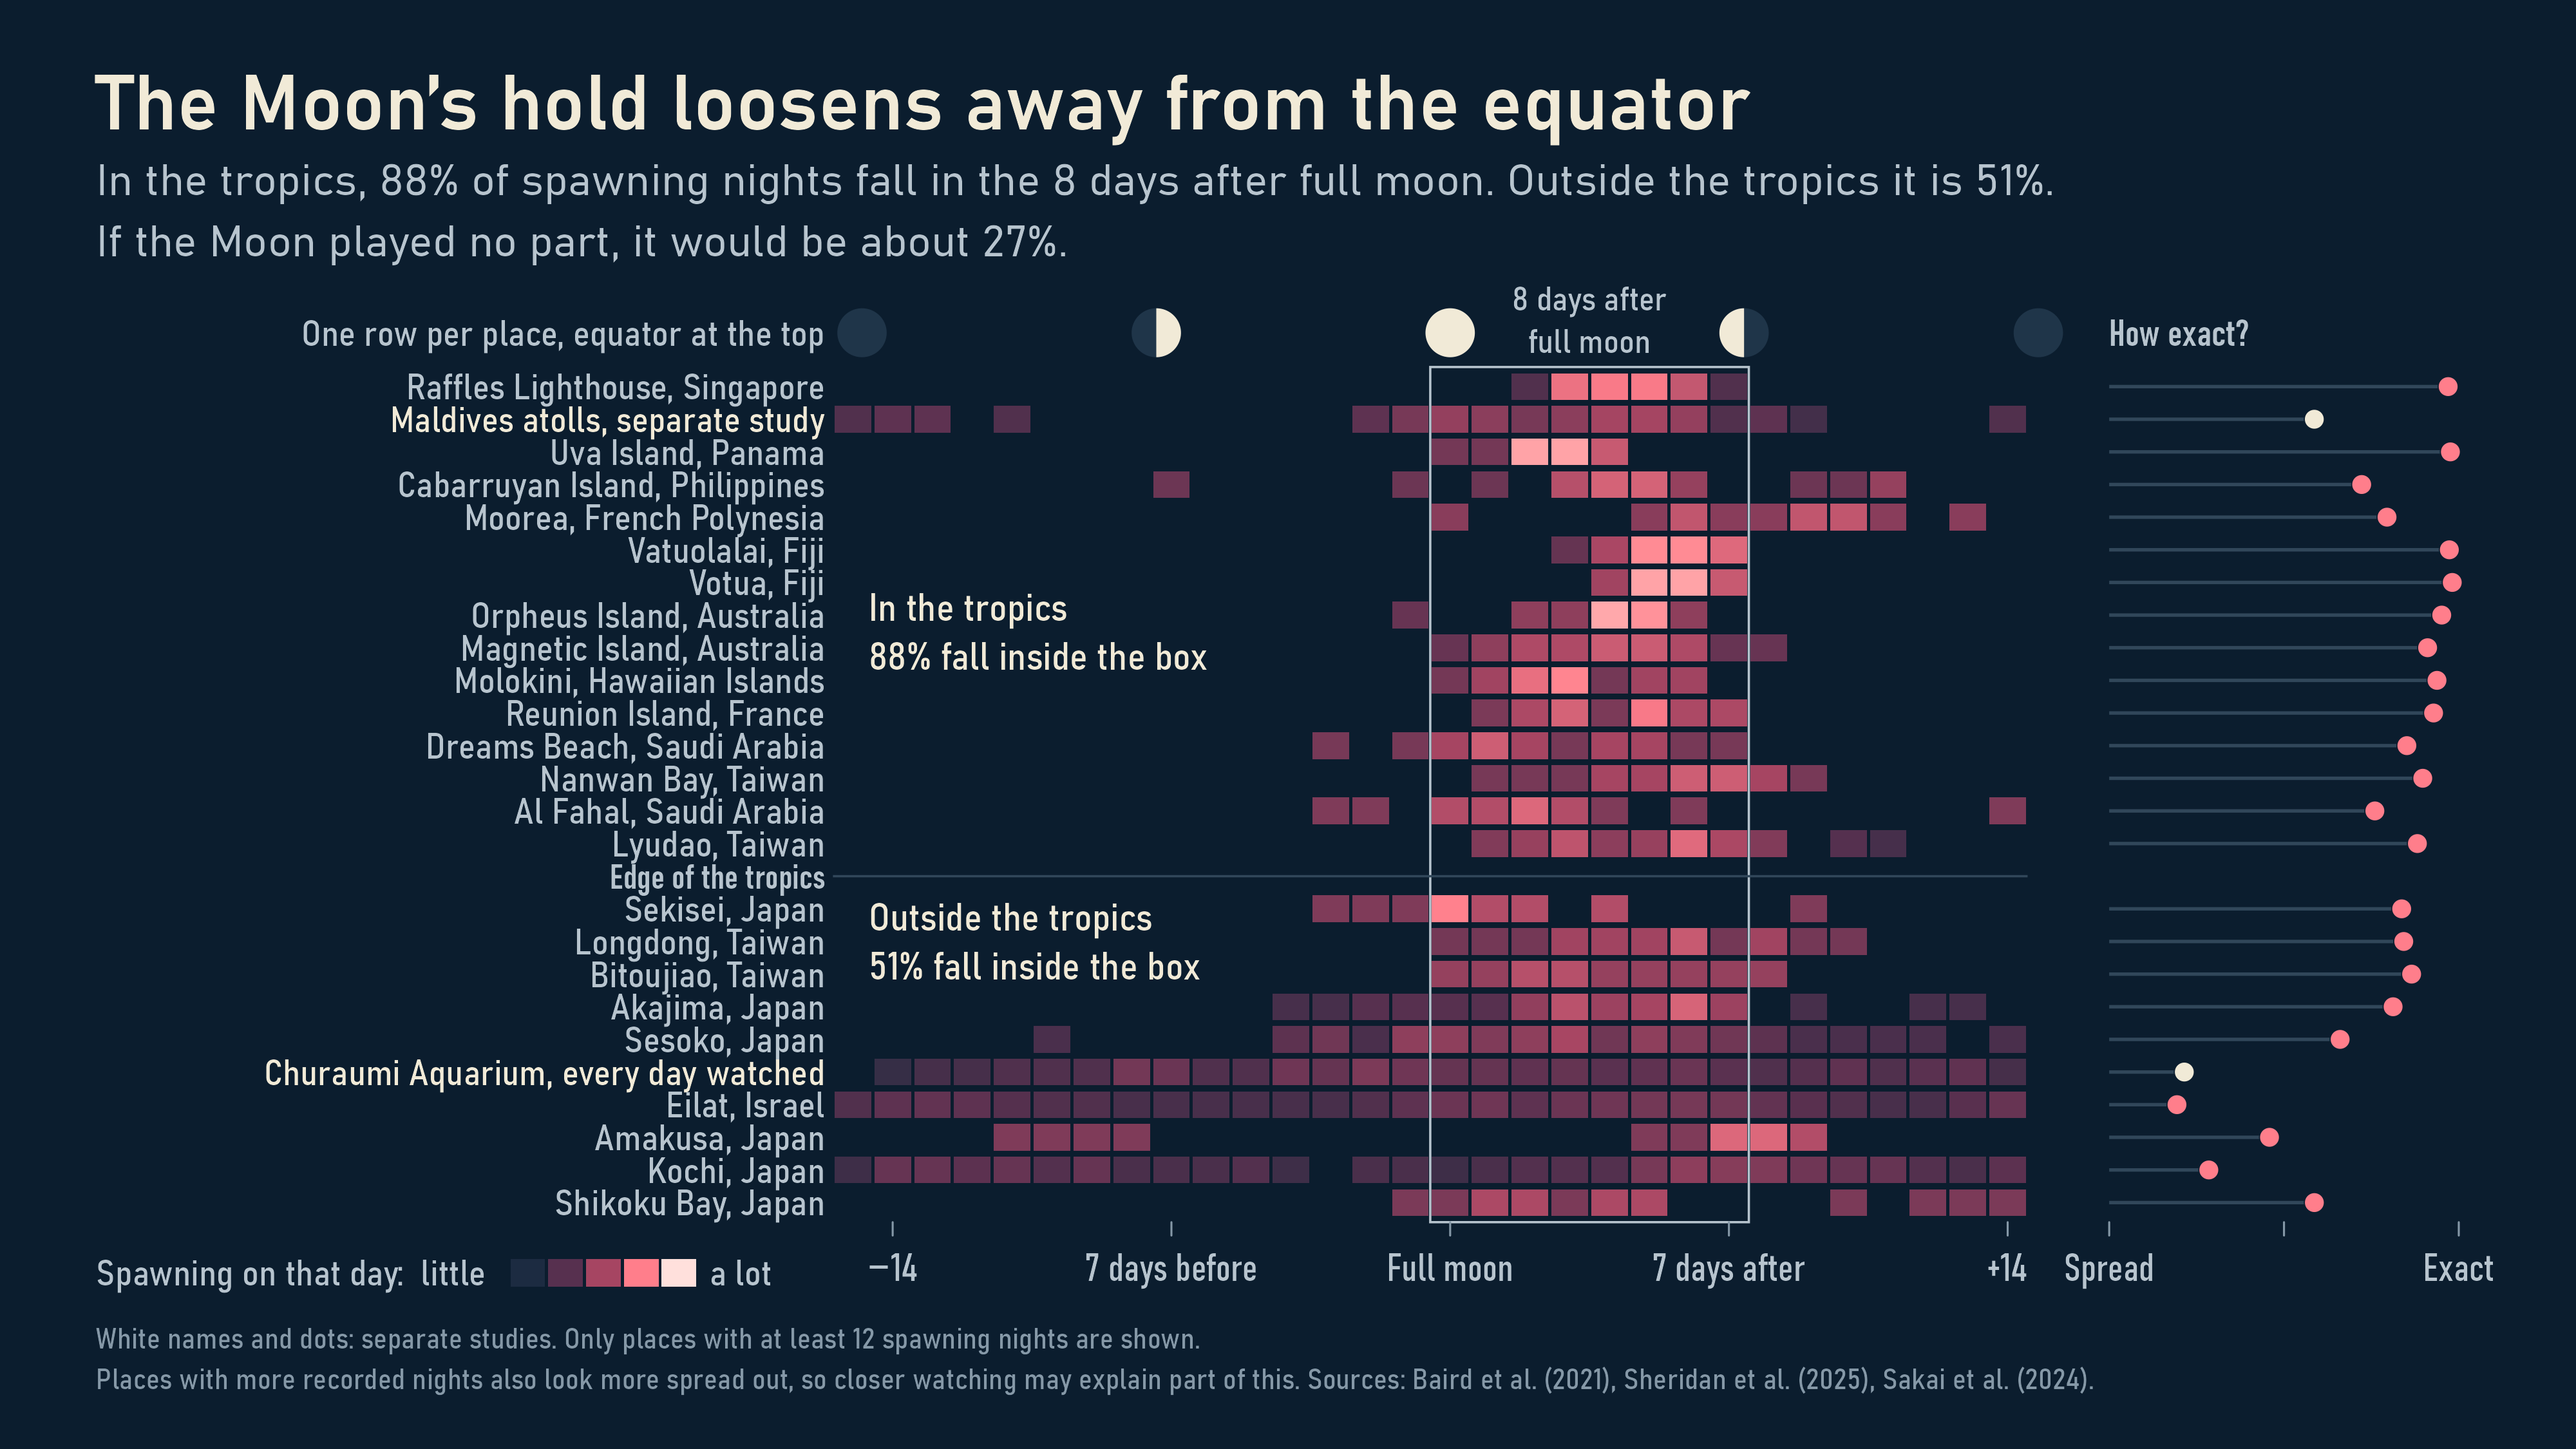
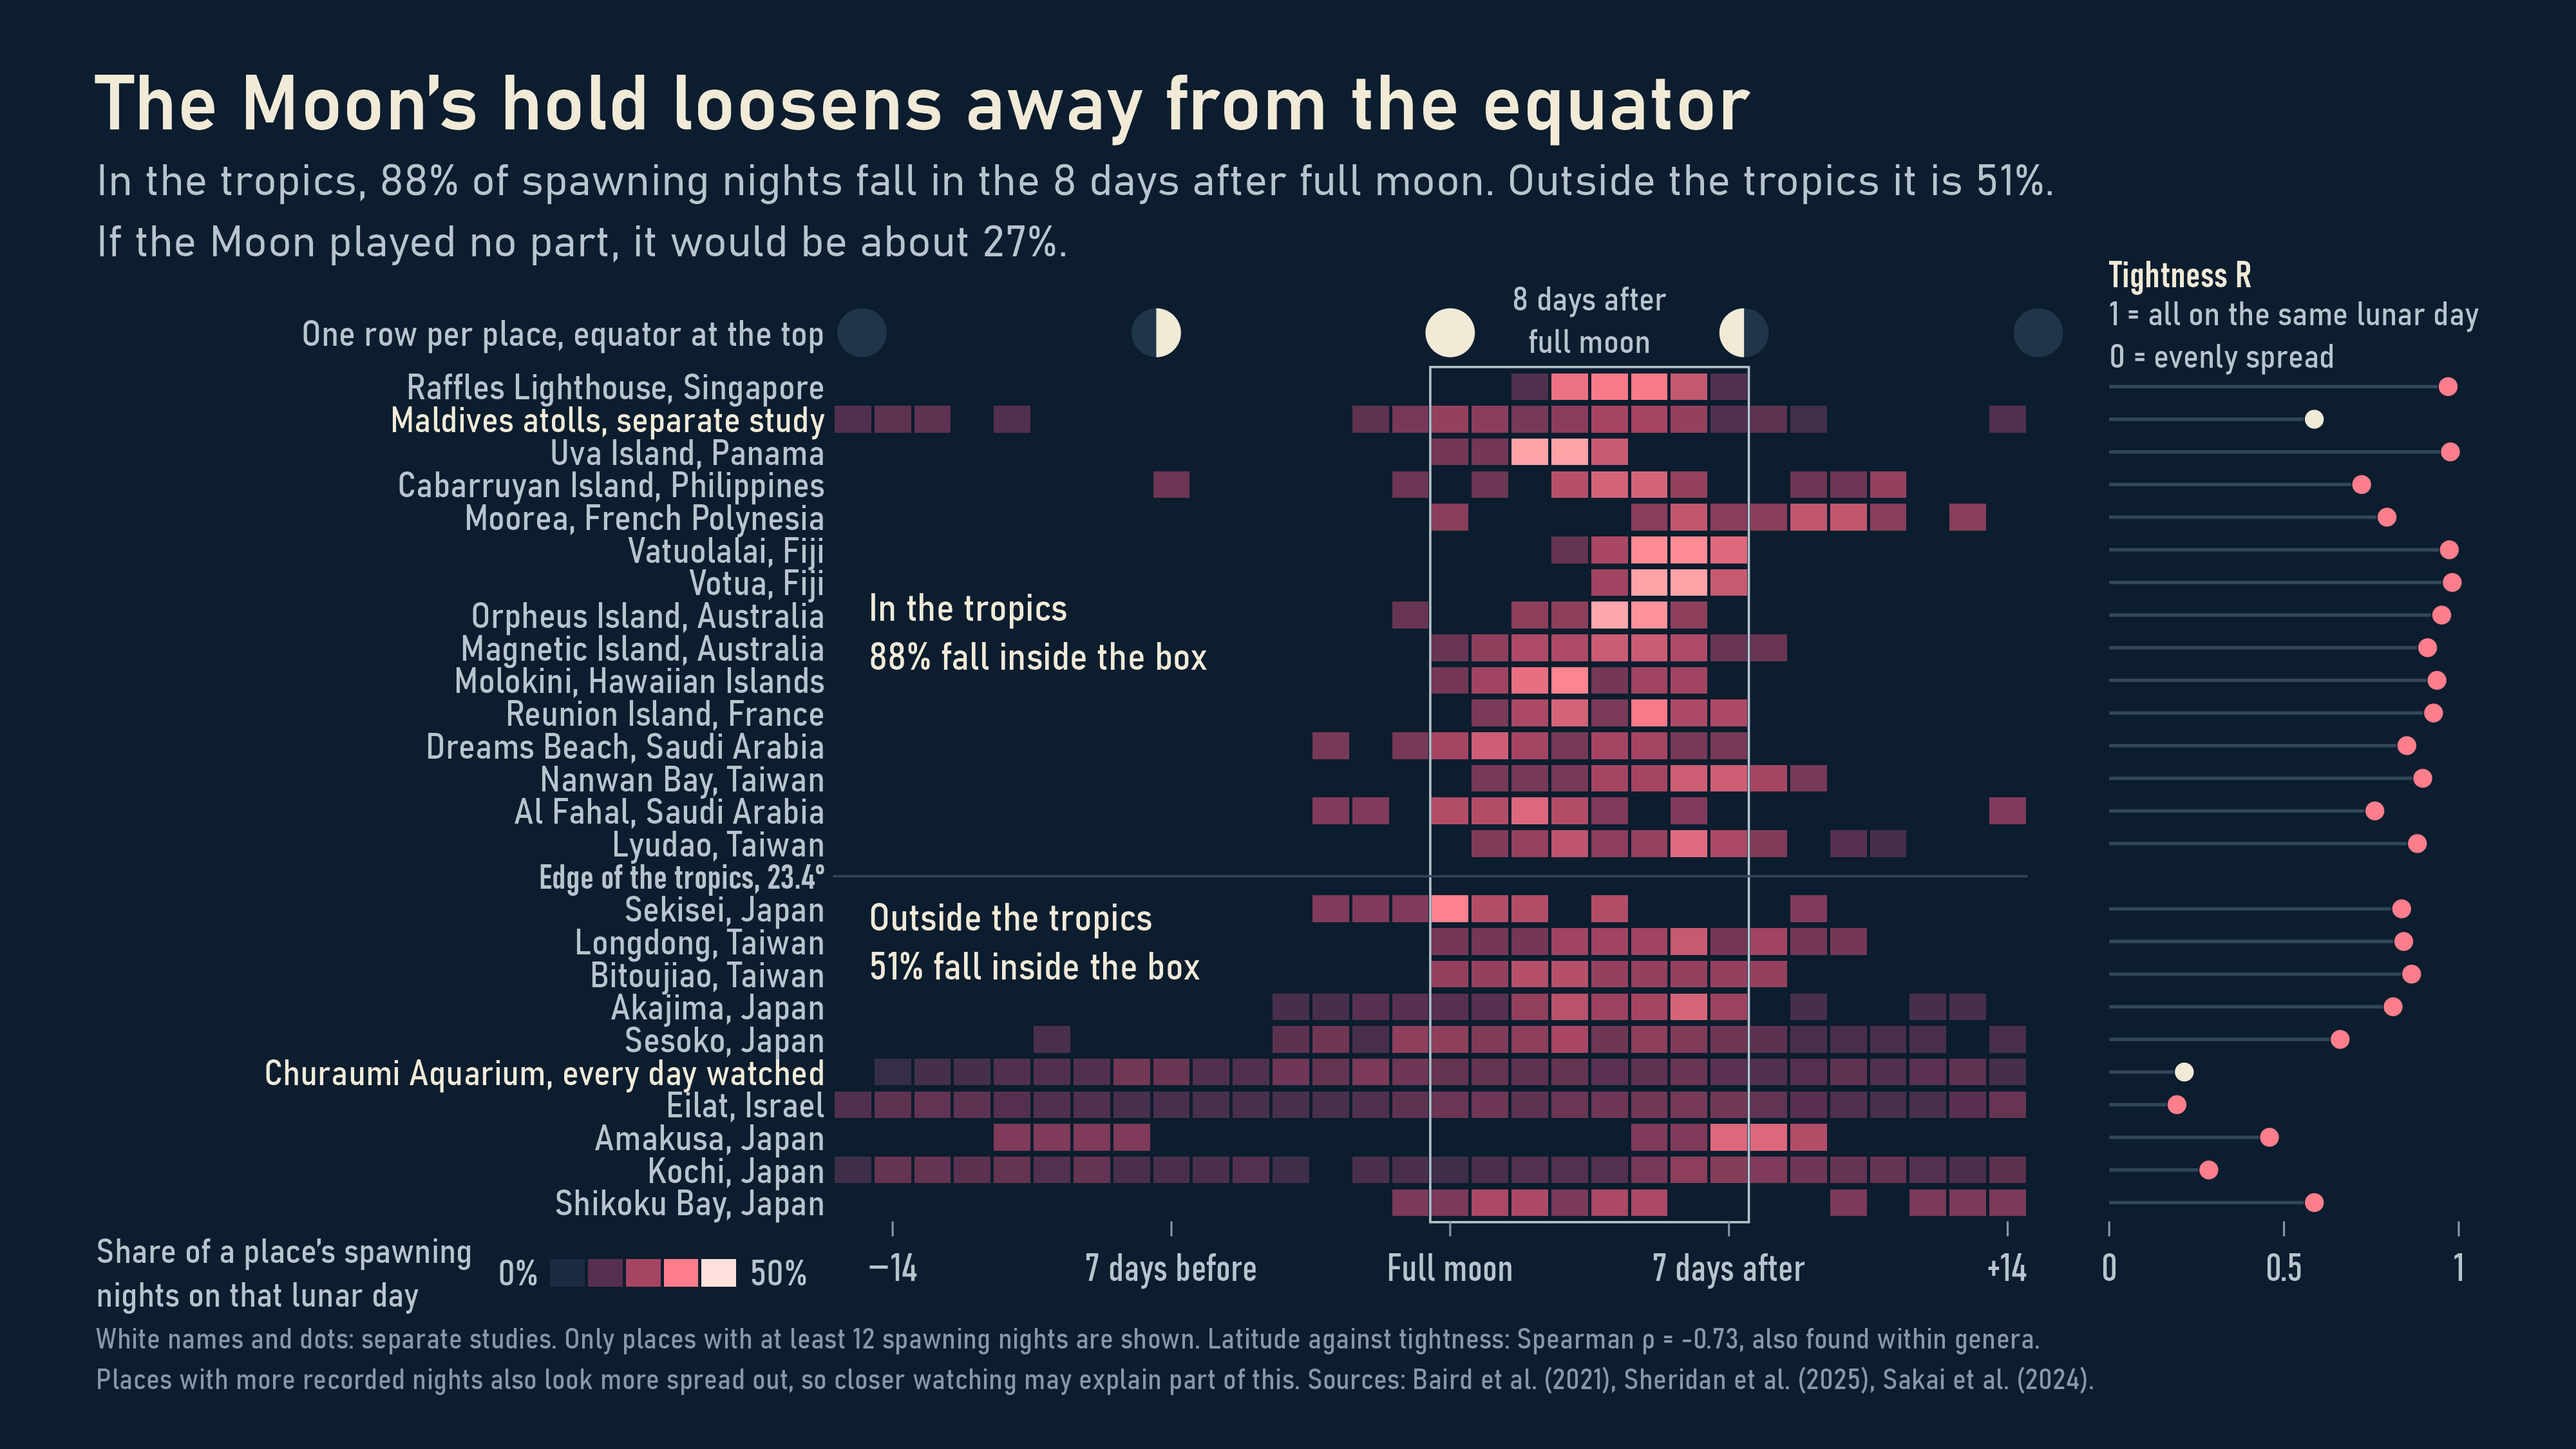
feat: state the statistics directly on the plots
Defines tightness R and says it is not a confidence interval, names the
interquartile range, Brier error and straight-line fit, gives legends real
numbers, explains what the rising and flat lines mean on plot 4, and says
plainly that plot 2 is not a map. Data marks are unchanged from main.

diff --git a/docs/PLOT_GUIDE.md b/docs/PLOT_GUIDE.md
@@ -8,7 +8,7 @@ With two minutes per plot and five slides at most, the strongest route is 1, 4, 
 
 ## 1. Three clocks
 
-Each clock is one natural cycle, running clockwise. A pink bar is the number of records in that stretch of the cycle, and the thin ring is what random spawning would reach, so anything past it beats chance. The white line points at the usual time. A longer white line means the timing is more exact. Statisticians call its length the tightness.
+Each clock is one natural cycle, running clockwise. A pink bar is the number of records in that stretch of the cycle, and the thin ring is what random spawning would reach, so anything past it beats chance. The white line points at the average time on the circle. Its length R, the mean resultant length, is what we call tightness: 0 means evenly spread, 1 means all records at one moment. R describes how concentrated the records are. It is not a confidence interval.
 
 Say that the reef answers three separate questions: which season, which night and which hour. Then compare the hands. The Sun's is longest and the Moon's is shortest, which surprises people who know this topic as a full-moon story.
 
@@ -24,7 +24,7 @@ Be ready for the survey question. Teams go looking when they expect spawning, so
 
 ## 3. The Moon
 
-Each row is one place, ordered from the equator at the top to 33° at the bottom. Each column is a day of the lunar month, and a brighter cell means more of that place's records fell on that day. The box marks the eight days from full moon. The strip on the right shows how exact each place is, from spread out to exact.
+Each row is one place, ordered from the equator at the top to 33° at the bottom. Each column is a day of the lunar month, and a brighter cell means more of that place's records fell on that day. The box marks the eight days from full moon. The strip on the right gives each place its tightness R: 1 means all on the same lunar day, 0 means evenly spread over the month.
 
 Read downwards. Near the equator the records pile up inside the box. Past the edge of the tropics they spread out, and at Eilat and Kochi they cover almost the whole month. That is why the old headline of 68% was misleading: it is 88% inside the tropics and 51% beyond them.
 
@@ -48,7 +48,7 @@ Do not oversell this. It is one aquarium, and a tank could dull the Moon's signa
 
 ## 6. Minutes
 
-Each dot is one spawning, and the white bar covers the middle half of the dots in each row. The top block is wild reefs by genus. The bottom block is tanks at Australia's Sea Simulator by species, all timed from one programmed sunset.
+Each dot is one spawning, and the white bar is the interquartile range, the middle 50% of the dots in each row. The top block is wild reefs by genus. The bottom block is tanks at Australia's Sea Simulator by species, all timed from one programmed sunset.
 
 The researchers moved the seasons by six months and the light cycle by four hours, and the corals followed. That is the closest thing here to an experiment. The contrast is in the width of the rows: Acropora in the wild spreads over 84 minutes, while A. loripes in a tank falls within 5, and each species keeps a different time.
 
